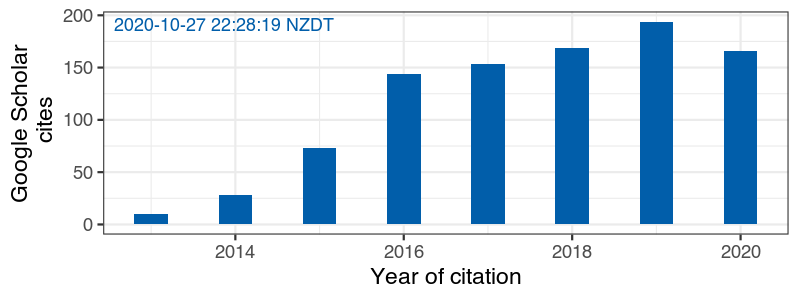
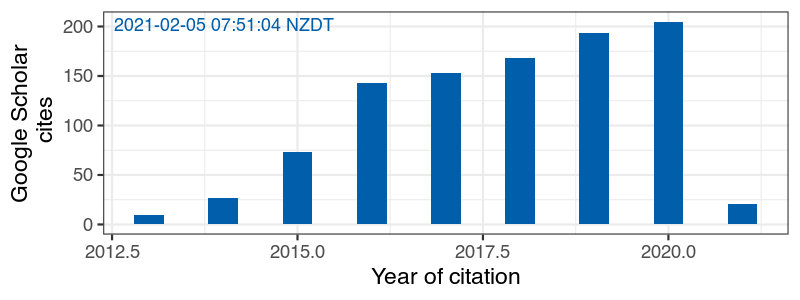
updated CV Feb 2021

diff --git a/index.md b/index.md
@@ -76,9 +76,11 @@ __Victoria University of Wellington, NZ__ BBMedSc Biomedical Science (_Majors: H
 
 ### Research Grants
 
+`2020` co-PI, ESR Pioneer Funding: *Harnessing the disruptive nature of portable sequencing for community empowerment*
+
 `2019`  co-PI, ESR Pioneer Funding: *Engineering, Robotics, Innovation, Coding and Automation code club pilot plus portable sequencers and remote sensors*
 
-`2019`  PI, ESR Strategic Science Investment Funding: *Clinically Relevant Human Genomics at ESR*
+`2019 - `  PI, ESR Strategic Science Investment Funding: *Clinically Relevant Human Genomics at ESR*
 
 `2019`  PI, ESR Pioneer Funding: *Growing ESRs genomics reputation – compiling and refining a eukaryotic reference genome*
 
@@ -139,7 +141,7 @@ _ESR Masters Research Scholarship_
 Co-supervisor - Bioinformatics PhD student (Otago University/ESR)
 
 `2018 - ongoing` 
-Co-supervisor - Bioinformatics PhD student (Otago University/ESR)  
+Co-supervisor - Bioinformatics PhD student (Otago University/ESR)
 
 `2018 - completed`
 Secondary Supervisor – Bioinformatics Honors Student (QUT)
@@ -151,11 +153,15 @@ A course designed to walk Research Supervisors through the frameworks and pragma
 
 * Journal articles: __43__
 * H-index: __17__
-* Citations: __962__
+* Citations: __1006__
 
 ## Publications
 
 <!-- ### Journals -->
+
+`2021`
+
+Cao TV, Lea RA, Sutherland HG, **Benton MC**, Pishva SR, Haupt LM, and Griffiths LR. (2021) A genome-wide methylation study of body fat traits in the Norfolk Island Isolate. *Nutrition, Metabolism and Cardiovascular Diseases* (Accepted, awaiting publication)
 
 `2020`
 
